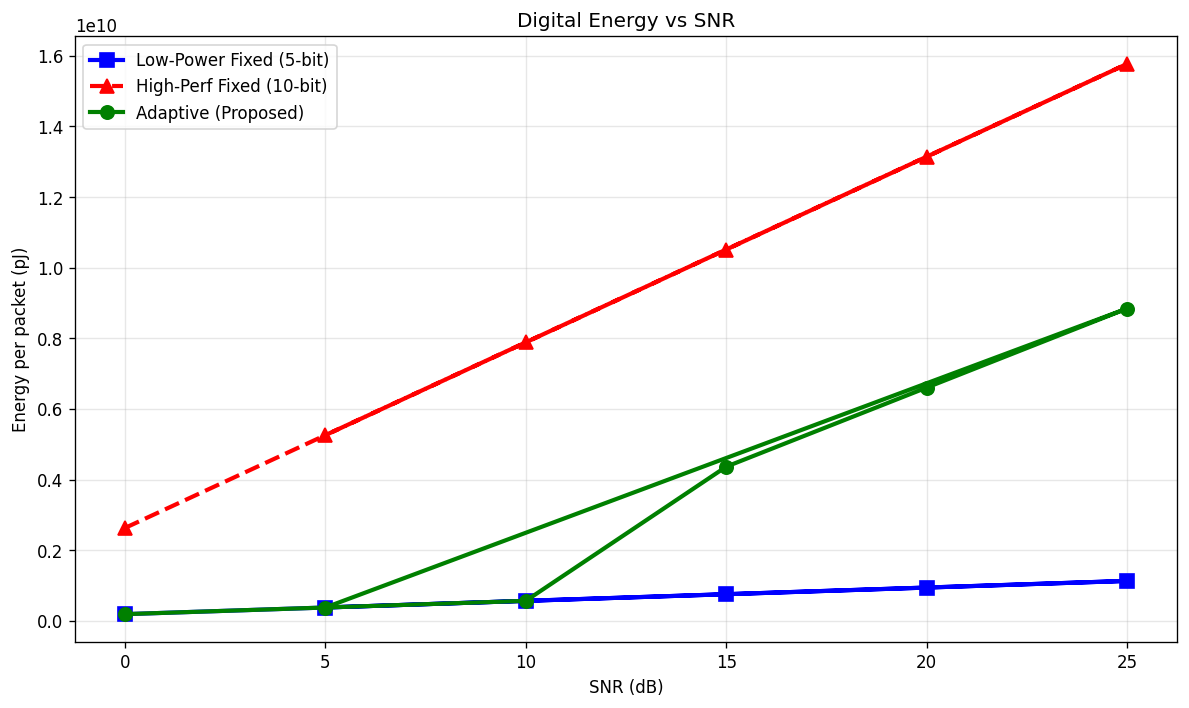
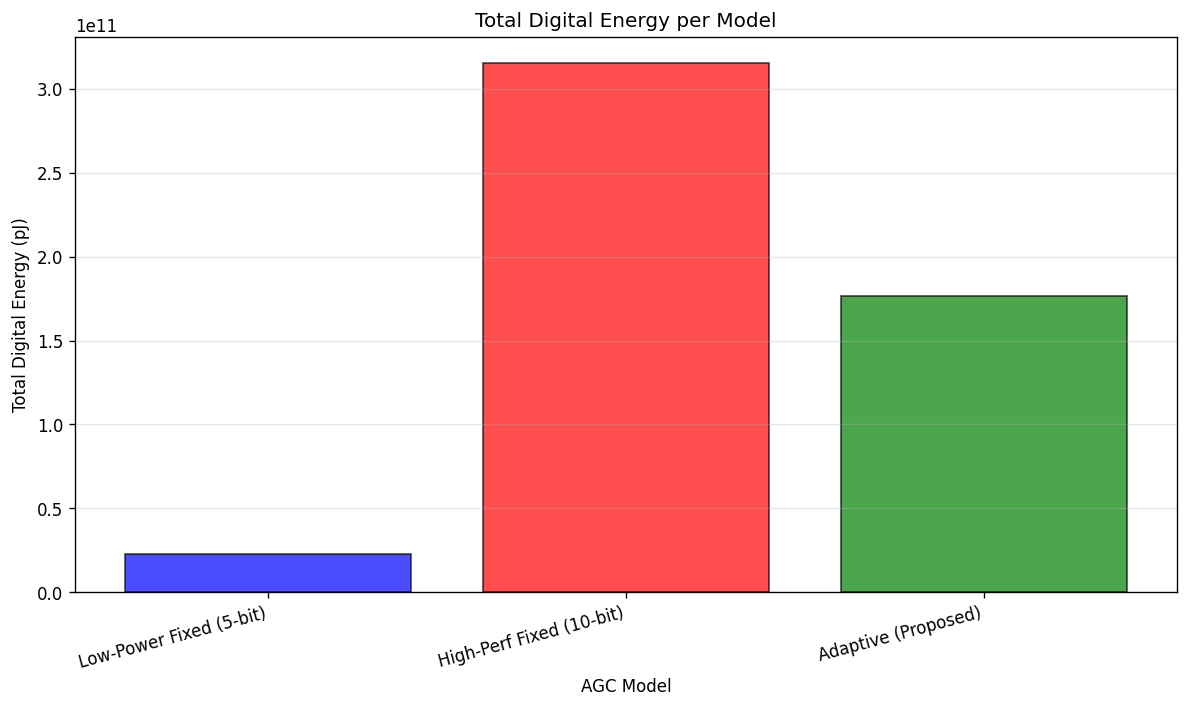
Change all graphs from line charts to bar charts (X-axis = models)
- Convert Energy, BER, Latency from SNR-based line charts to model-based bar charts
- Convert Operations from SNR-based line charts to model-based bar charts
- Now all 8 graphs use models on X-axis for direct comparison
- Remove line styles, markers (no longer needed for bar charts)
- Update documentation to reflect bar chart visualization

Graphs now show:
- 3 model comparison bar charts (Energy, BER, Latency)
- 1 operations comparison chart (Additions, Multiplications)
- 4 aggregate bar charts (Efficiency, SQNR, Throughput, ADC Usage)

This makes model comparison much clearer and more intuitive.

diff --git a/main_agc_system.py b/main_agc_system.py
@@ -884,87 +884,48 @@ def compute_model_metrics(sim_result: Dict) -> Dict[str, float]:
     }
 
 def plot_three_metrics_models(metrics_by_model: Dict[str, Dict[str, float]], outdir: str = "."):
-    """3개 주요 메트릭 그래프: Energy, BER, Latency (SNR별 선 그래프)"""
+    """3개 주요 메트릭 그래프: Energy, BER, Latency (모델별 bar chart)"""
     model_names = list(metrics_by_model.keys())
-    colors = {'Low-Power Fixed (5-bit)': 'blue', 'High-Perf Fixed (10-bit)': 'red', 'Adaptive (Proposed)': 'green'}
-    linestyles = {'Low-Power Fixed (5-bit)': '-', 'High-Perf Fixed (10-bit)': '--', 'Adaptive (Proposed)': '-'}
-    markers = {'Low-Power Fixed (5-bit)': 's', 'High-Perf Fixed (10-bit)': '^', 'Adaptive (Proposed)': 'o'}
+    colors = ['blue', 'red', 'green']
 
-    # 모든 모델의 SNR 값을 합쳐서 전체 SNR 범위 추출
-    all_snr_keys = set()
-    for model_name in model_names:
-        all_snr_keys.update(metrics_by_model[model_name]["ber_by_snr"].keys())
-    snr_keys = sorted(all_snr_keys)
-    snr_values = [int(k.replace("snr_", "").replace("db", "")) for k in snr_keys]
-
-    # 1) Digital Energy vs SNR
+    # 1) Digital Energy (bar chart)
     plt.figure(figsize=(10,6))
-    for model_name in model_names:
-        energy_values = [metrics_by_model[model_name]["energy_by_snr"].get(snr_key, None) for snr_key in snr_keys]
-        # None 값 제거
-        valid_points = [(snr, energy) for snr, energy in zip(snr_values, energy_values) if energy is not None]
-        if valid_points:
-            x_vals, y_vals = zip(*valid_points)
-            color = colors.get(model_name, 'gray')
-            linestyle = linestyles.get(model_name, '-')
-            marker = markers.get(model_name, 'o')
-            plt.plot(x_vals, y_vals, marker=marker, label=model_name, linewidth=2.5,
-                    color=color, linestyle=linestyle, markersize=8)
-
-    plt.title('Digital Energy vs SNR')
-    plt.xlabel('SNR (dB)')
-    plt.ylabel('Energy per packet (pJ)')
-    plt.legend()
-    plt.grid(True, alpha=0.3)
+    energy_values = [metrics_by_model[model_name]["total_digital_pj"] for model_name in model_names]
+    plt.bar(model_names, energy_values, color=colors, alpha=0.7, edgecolor='black')
+    plt.title('Total Digital Energy per Model')
+    plt.xlabel('AGC Model')
+    plt.ylabel('Total Digital Energy (pJ)')
+    plt.xticks(rotation=15, ha='right')
+    plt.grid(True, alpha=0.3, axis='y')
     plt.tight_layout()
     plt.savefig(os.path.join(outdir, "metrics_energy.png"), dpi=120, bbox_inches='tight')
     plt.close()
     print("  ✓ Saved: metrics_energy.png")
 
-    # 2) BER vs SNR
+    # 2) Average BER (bar chart)
     plt.figure(figsize=(10,6))
-    for model_name in model_names:
-        ber_values = [metrics_by_model[model_name]["ber_by_snr"].get(snr_key, None) for snr_key in snr_keys]
-        # None 값 제거
-        valid_points = [(snr, ber) for snr, ber in zip(snr_values, ber_values) if ber is not None]
-        if valid_points:
-            x_vals, y_vals = zip(*valid_points)
-            color = colors.get(model_name, 'gray')
-            linestyle = linestyles.get(model_name, '-')
-            marker = markers.get(model_name, 'o')
-            plt.plot(x_vals, y_vals, marker=marker, label=model_name, linewidth=2.5,
-                    color=color, linestyle=linestyle, markersize=8)
-
-    plt.title('BER vs SNR')
-    plt.xlabel('SNR (dB)')
-    plt.ylabel('BER (lower is better)')
+    ber_values = [metrics_by_model[model_name]["avg_ber"] for model_name in model_names]
+    plt.bar(model_names, ber_values, color=colors, alpha=0.7, edgecolor='black')
+    plt.title('Average BER per Model')
+    plt.xlabel('AGC Model')
+    plt.ylabel('Average BER (lower is better)')
     plt.yscale('log')  # Log scale for BER
-    plt.legend()
-    plt.grid(True, alpha=0.3)
+    plt.xticks(rotation=15, ha='right')
+    plt.grid(True, alpha=0.3, axis='y')
     plt.tight_layout()
     plt.savefig(os.path.join(outdir, "metrics_accuracy.png"), dpi=120, bbox_inches='tight')
     plt.close()
     print("  ✓ Saved: metrics_accuracy.png")
 
-    # 3) Latency vs SNR
+    # 3) Average Latency (bar chart)
     plt.figure(figsize=(10,6))
-    for model_name in model_names:
-        latency_values = [metrics_by_model[model_name]["latency_by_snr"].get(snr_key, None) for snr_key in snr_keys]
-        # None 값 제거
-        valid_points = [(snr, latency) for snr, latency in zip(snr_values, latency_values) if latency is not None]
-        if valid_points:
-            x_vals, y_vals = zip(*valid_points)
-            color = colors.get(model_name, 'gray')
-            linestyle = linestyles.get(model_name, '-')
-            marker = markers.get(model_name, 'o')
-            plt.plot(x_vals, y_vals, marker=marker, label=model_name, linewidth=2.5,
-                    color=color, linestyle=linestyle, markersize=8)
-
-    plt.title('Latency vs SNR')
-    plt.xlabel('SNR (dB)')
-    plt.ylabel('Latency (ms)')
-    plt.legend()
-    plt.grid(True, alpha=0.3)
+    latency_values = [metrics_by_model[model_name]["avg_latency_ms"] for model_name in model_names]
+    plt.bar(model_names, latency_values, color=colors, alpha=0.7, edgecolor='black')
+    plt.title('Average Latency per Model')
+    plt.xlabel('AGC Model')
+    plt.ylabel('Average Latency (ms)')
+    plt.xticks(rotation=15, ha='right')
+    plt.grid(True, alpha=0.3, axis='y')
     plt.tight_layout()
     plt.savefig(os.path.join(outdir, "metrics_latency.png"), dpi=120, bbox_inches='tight')
     plt.close()
@@ -975,63 +936,36 @@ def plot_extended_metrics(metrics_by_model: Dict[str, Dict], outdir: str = "."):
     """
     확장 메트릭 그래프
 
-    생성 그래프 (모두 X축이 연속적인 값):
-    1. Operations vs SNR (Additions, Multiplications)
+    생성 그래프 (모두 bar chart):
+    1. Operations (Additions, Multiplications)
     2. Energy Efficiency (bar chart, aggregate)
     3. SQNR (bar chart, aggregate)
     4. Throughput (bar chart, aggregate)
     5. ADC Bit Usage (bar chart, model별 비율)
     """
     model_names = list(metrics_by_model.keys())
-    colors = {'Low-Power Fixed (5-bit)': 'blue', 'High-Perf Fixed (10-bit)': 'red', 'Adaptive (Proposed)': 'green'}
-    linestyles = {'Low-Power Fixed (5-bit)': '-', 'High-Perf Fixed (10-bit)': '--', 'Adaptive (Proposed)': '-'}
-    markers = {'Low-Power Fixed (5-bit)': 's', 'High-Perf Fixed (10-bit)': '^', 'Adaptive (Proposed)': 'o'}
+    colors = ['blue', 'red', 'green']
 
-    # 모든 모델의 SNR 값을 합쳐서 전체 SNR 범위 추출
-    all_snr_keys = set()
-    for model_name in model_names:
-        all_snr_keys.update(metrics_by_model[model_name]["ber_by_snr"].keys())
-    snr_keys = sorted(all_snr_keys)
-    snr_values = [int(k.replace("snr_", "").replace("db", "")) for k in snr_keys]
-
-    # 4) Operations vs SNR (Additions, Multiplications)
+    # 4) Operations (Additions, Multiplications) - bar chart
     fig, (ax1, ax2) = plt.subplots(1, 2, figsize=(14,5))
 
     # Additions
-    for model_name in model_names:
-        add_values = [metrics_by_model[model_name]["operations_by_snr"].get(snr_key, {}).get("additions", None) for snr_key in snr_keys]
-        valid_points = [(snr, adds) for snr, adds in zip(snr_values, add_values) if adds is not None]
-        if valid_points:
-            x_vals, y_vals = zip(*valid_points)
-            color = colors.get(model_name, 'gray')
-            linestyle = linestyles.get(model_name, '-')
-            marker = markers.get(model_name, 'o')
-            ax1.plot(x_vals, y_vals, marker=marker, label=model_name, linewidth=2.5,
-                    color=color, linestyle=linestyle, markersize=8)
-
-    ax1.set_title('Additions vs SNR')
-    ax1.set_xlabel('SNR (dB)')
-    ax1.set_ylabel('Additions per packet')
-    ax1.legend()
-    ax1.grid(True, alpha=0.3)
+    additions = [metrics_by_model[model_name]["total_additions"] for model_name in model_names]
+    ax1.bar(model_names, additions, color=colors, alpha=0.7, edgecolor='black')
+    ax1.set_title('Total Additions per Model')
+    ax1.set_xlabel('AGC Model')
+    ax1.set_ylabel('Total Additions')
+    ax1.tick_params(axis='x', rotation=15)
+    ax1.grid(True, alpha=0.3, axis='y')
 
     # Multiplications
-    for model_name in model_names:
-        mult_values = [metrics_by_model[model_name]["operations_by_snr"].get(snr_key, {}).get("multiplications", None) for snr_key in snr_keys]
-        valid_points = [(snr, mults) for snr, mults in zip(snr_values, mult_values) if mults is not None]
-        if valid_points:
-            x_vals, y_vals = zip(*valid_points)
-            color = colors.get(model_name, 'gray')
-            linestyle = linestyles.get(model_name, '-')
-            marker = markers.get(model_name, 'o')
-            ax2.plot(x_vals, y_vals, marker=marker, label=model_name, linewidth=2.5,
-                    color=color, linestyle=linestyle, markersize=8)
-
-    ax2.set_title('Multiplications vs SNR')
-    ax2.set_xlabel('SNR (dB)')
-    ax2.set_ylabel('Multiplications per packet')
-    ax2.legend()
-    ax2.grid(True, alpha=0.3)
+    multiplications = [metrics_by_model[model_name]["total_multiplications"] for model_name in model_names]
+    ax2.bar(model_names, multiplications, color=colors, alpha=0.7, edgecolor='black')
+    ax2.set_title('Total Multiplications per Model')
+    ax2.set_xlabel('AGC Model')
+    ax2.set_ylabel('Total Multiplications')
+    ax2.tick_params(axis='x', rotation=15)
+    ax2.grid(True, alpha=0.3, axis='y')
 
     plt.tight_layout()
     plt.savefig(os.path.join(outdir, "metrics_operations.png"), dpi=120, bbox_inches='tight')
@@ -1107,7 +1041,7 @@ def plot_all_metrics(metrics_by_model: Dict[str, Dict], outdir: str = "."):
     print("Generating all comparison graphs...")
     print("="*80)
 
-    # 주요 3개 그래프 (SNR 기반)
+    # 주요 3개 그래프 (모델별 bar chart)
     plot_three_metrics_models(metrics_by_model, outdir)
 
     # 확장 5개 그래프
@@ -1116,8 +1050,8 @@ def plot_all_metrics(metrics_by_model: Dict[str, Dict], outdir: str = "."):
     print("\n" + "="*80)
     print(f"All graphs saved to: {outdir}/")
     print("Total: 8 comparison graphs generated")
-    print("  - 3 SNR-based line charts (Energy, BER, Latency)")
-    print("  - 1 SNR-based operation chart (Additions, Multiplications)")
+    print("  - 3 model comparison bar charts (Energy, BER, Latency)")
+    print("  - 1 operations comparison chart (Additions, Multiplications)")
     print("  - 4 aggregate bar charts (Efficiency, SQNR, Throughput, ADC Usage)")
     print("="*80)
 
